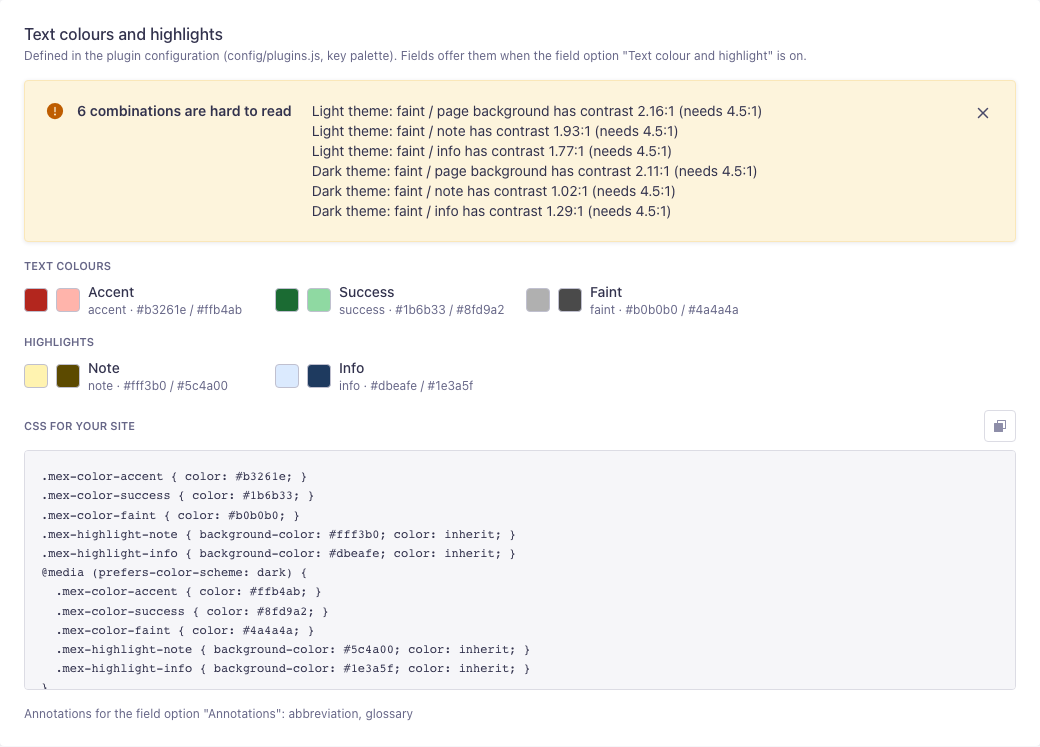
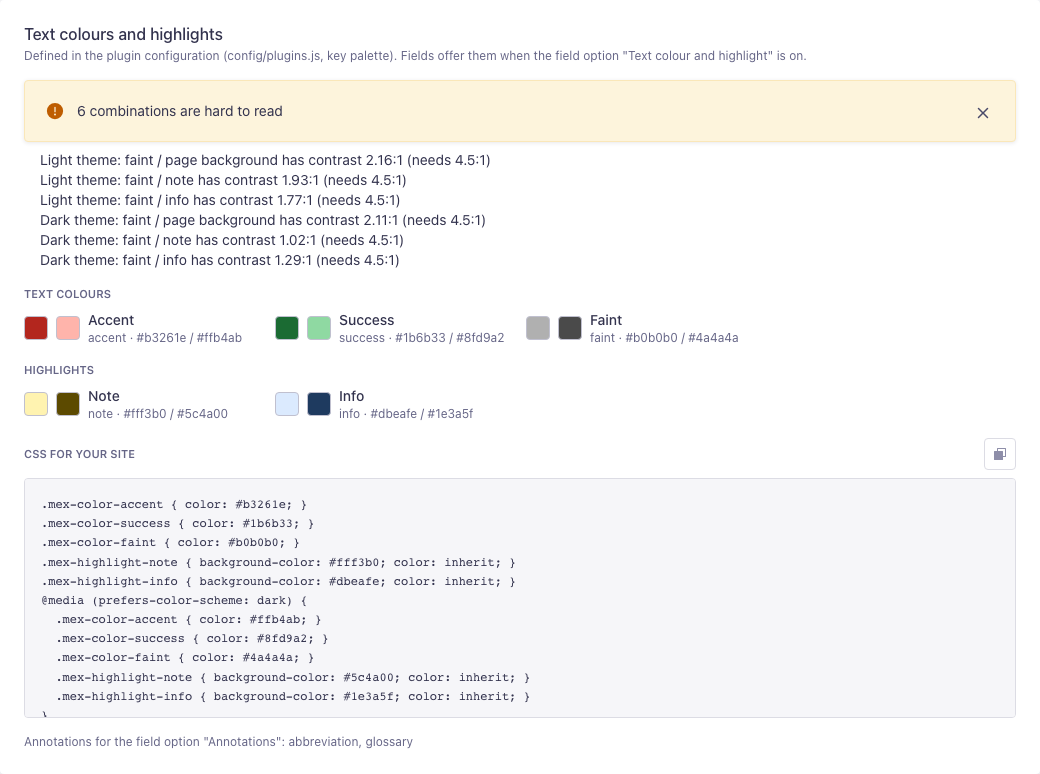
docs: 2.5 acceptance record, CONTRIBUTING host additions, compatibility (5.61.1, 5.62.0) and the re-taken palette screenshot

Changed region(s): [[0.0, 0.0308, 0.9846, 0.9853], [0.9538, 0.5542, 0.9846, 0.6158]]

diff --git a/docs/acceptance/2026-11-16-v2.5-acceptance.md b/docs/acceptance/2026-11-16-v2.5-acceptance.md
@@ -1,0 +1,106 @@
+# Magic Editor X 2.5 acceptance (2026-11-16)
+
+Final build under test: `feat/2.5` at b7e247e (last code change); later commits change only docs, screenshots and this record. Integration ran on the pack of f096b26; b7e247e changed only an attribute of the admin dialogs and two test assertions, and every browser run and both console sweeps ran on the pack of b7e247e. The plugin was packed with `npm pack` (package version 2.4.0 until semantic-release decides 2.5.0) and installed from the tarball into the acceptance host.
+
+Merged into 2.5: the six fixes for the 2.4 known issues, MCP tools (item 5), the entry panel with presence, soft lock, comments and quality, and the homepage widgets (items 1 and 12), insert from another entry and the block clipboard (item 2), private upload providers and dropped files (items 6 and 10), palette colours, superscript/subscript and inline annotations (items 9 and 11), local drafts and lazy start (items 7 and 8), the `@editorjs/embed` 2.7.7 pin for Node 22, and the fixes of this acceptance. Deferred: component blocks (item 3), Live Preview inline editing (item 4), a columns block (item 13) and the session-expiry warning (see the CHANGELOG).
+
+Host: Strapi **5.61.1** (npm `latest` is 5.62.0 since 2026-11-12; see the smoke test below), Node 22.23.1, the union of the eight 2.5 feature hosts on top of the 2.4 union host: content types `api::tag.tag` (no editor field), `api::longform.longform` (20 editor fields and a dynamic zone, no i18n) and `api::glossary-term.glossary-term`; the glossary annotation registered in `register()`; a synthetic `palette`; `presence.softLock`, `lazyInit.enabled`, `mcp.enabled` and Strapi's `server.mcp.enabled` from the environment; a fake private upload provider (`MEX_UPLOAD=private`, files served signed by a fake file server); the pre-2.4 write switch `MEX_PRE24_TITLES`; six seeded admins plus one admin without plugin access. Synthetic data only.
+
+## Automated gates
+
+| Gate                    | Command                                                                                  | Result                                                                                                                                                                                                                                                       |
+| ----------------------- | ---------------------------------------------------------------------------------------- | ------------------------------------------------------------------------------------------------------------------------------------------------------------------------------------------------------------------------------------------------------------ |
+| Lint / format           | `npm run lint`, `npm run format:check`                                                   | clean                                                                                                                                                                                                                                                        |
+| Unit tests              | `npm test`                                                                               | 763 / 763 (2.4.0: 647)                                                                                                                                                                                                                                       |
+| Build + runtime verify  | `npm run build`, `npm run verify`                                                        | OK                                                                                                                                                                                                                                                           |
+| Production audit        | `npm audit --omit=dev`                                                                   | 0 vulnerabilities                                                                                                                                                                                                                                            |
+| Lockfile                | `npm ci --dry-run --ignore-scripts` with npm 10.9.8 and 11                               | OK, 0 EBADENGINE                                                                                                                                                                                                                                             |
+| Engines                 | `tests/engines.test.mjs`; CI installs the packed package on Node 22                      | every production dependency accepts Node 22.12; no EBADENGINE                                                                                                                                                                                                |
+| Integration, SQLite     | `npm run test:integration` on a new database, plus the variant reruns                    | full suite 160 / 162 (2 skipped by design, run in the variants); mention e-mails on 6 / 6; fixes with e-mail 4 / 4; LanguageTool private off 2 / 2; alt text private off 2 / 2; MCP off 4 / 4; private upload provider 7 / 7                                 |
+| Integration, PostgreSQL | same                                                                                     | identical counts                                                                                                                                                                                                                                             |
+| Orphans                 | queries from CONTRIBUTING.md                                                             | 0 orphaned comments, suggestions and notifications on both databases                                                                                                                                                                                         |
+| Benchmark               | `npm run bench`, 3 runs                                                                  | all thresholds met in 3 / 3 runs; at 5,000 blocks normalise + sanitise 44.4 ms, `renderHtml` 37.9 ms, Yjs seed + apply 73.0 ms; 20 fields with 250 repeatable and dynamic-zone items: save normalise 93 ms, output render 68 ms (budgets 1,800 and 1,400 ms) |
+| Cluster (8 processes)   | `scripts/cluster-acceptance.mjs --duration 150 --clients 12`, 3 runs; `--proof presence` | 20 / 20 in each run; presence 7 / 7 (heartbeats seen through all processes, positional field rooms, leave, crash without ghosts, shared rate limit)                                                                                                          |
+| Strapi 5.62.0 smoke     | same pack on a host with Strapi 5.62.0, Design System and icons 2.3.1                    | install without EBADENGINE, admin build OK, integration 160 / 162 (2 skipped by design), console sweep of 104 screen states: 0 plugin messages (after b7e247e)                                                                                               |
+
+## Browser acceptance (Playwright, Chromium)
+
+Every scenario ran on the final pack against a new database per run, on SQLite and on PostgreSQL. Scenarios written before lazy start wait for every field on the page; they run with `lazyInit.enabled: false`, while the lazy start itself, the entry panel, the drafts and the console sweep run with the default configuration.
+
+| Scenario                             | What it covers                                                                                                                                                                                                      | SQLite | PostgreSQL |
+| ------------------------------------ | ------------------------------------------------------------------------------------------------------------------------------------------------------------------------------------------------------------------- | ------ | ---------- |
+| Fixes: Tab in dialogs                | Tab in the shortcuts dialog with a current block, Tab in the title, Tab between table cells                                                                                                                         | 17/17  | 17/17      |
+| Fixes: live editing                  | text typed into an empty field reaches the room; remote deletes keep the focus                                                                                                                                      | 8/8    | 8/8        |
+| Insert from another entry, clipboard | entry, locale, preset reasons, one undo step, live room, synced and custom blocks, image, Copy block, second tab, keyboard, 1440-320 light and dark, five locales                                                   | 70/70  | 70/70      |
+| Palette, sup/sub, annotations        | mouse and keyboard, required values, contrast warning, saved content, dark tokens, 1440-320, five locales                                                                                                           | 61/61  | 61/61      |
+| Entry panel and widgets              | two admins see each other, leaving and closed tabs, Show/Check (also for a field that has not started), collapsed component, 1440-320 light and dark, five locales, hidden without fields or access, home widgets   | 31/31  | 31/31      |
+| Soft lock                            | dialog once per tab, focus, Escape, Continue editing                                                                                                                                                                | 6/6    | 6/6        |
+| Local drafts and lazy start          | restore after tab close, reload and crash; one undo step; save, discard, conflict, expiry, new entry, positional field, live vs offline gap, logout clears; 20+5 fields, Tab into a waiting field, expanding a zone | 35/35  | 35/35      |
+| Media: picker keyboard               | picker by keyboard, focus back into the block, signed and visible, saved with file id and unsigned                                                                                                                  | 9/9    | 9/9        |
+| Media: drop zone                     | one upload, block after the pointer, visible, saved with id and unsigned                                                                                                                                            | 7/7    | 7/7        |
+| Media: matrix                        | 1440-320 light and dark: images visible, no overflow, drop frame inside the field; read-only reviewer gets no frame and uploads nothing                                                                             | 29/29  | 29/29      |
+| Legacy Media Library (once)          | host built with `useLegacyMediaLibrary: true`: no drop frame, Editor.js keeps its own file drop, gallery opens the legacy dialog, no plugin console messages                                                        | 5/5    |            |
+
+### Console sweep
+
+13 screens (edit view, More tools menu, comments panel, version history, insert from another entry, quality panel, long entry with 20 fields and a dynamic zone, new entry, admin home with widgets, Settings Configuration, Custom blocks, Templates, Audit trail) × light and dark × 1440, 768, 390 and 320 px = 104 screen states per database. Every console error and warning, page error and failed request is attributed.
+
+| Source                                                                                                 | SQLite | PostgreSQL |
+| ------------------------------------------------------------------------------------------------------ | ------ | ---------- |
+| **Magic Editor X**                                                                                     | **0**  | **0**      |
+| Unattributed                                                                                           | 0      | 0          |
+| Strapi core: content-manager `useRBAC(object)` deprecation warning                                     | yes    | yes        |
+| Strapi core: React Router v7 future-flag warnings                                                      | yes    | yes        |
+| Strapi core: styled-components unknown prop `attribute`                                                | yes    | yes        |
+| Strapi core: upgrade banner request to api.github.com (outgoing requests are blocked on the host)      | yes    | yes        |
+| Strapi core: 404 of the i18n AI localisation job lookup and of the preview URL lookup (not configured) | yes    | yes        |
+| Page overflow, navigation failures                                                                     | 0      | 0          |
+
+The same sweep on the Strapi 5.62.0 host: 0 plugin, 0 unattributed. The scenarios' own console checks report no plugin messages either. On the legacy host, react-query of Strapi's legacy Media Library logs `AbortError` when its dialog closes during a request (Strapi core; the plugin does not use react-query).
+
+## Click paths (fresh entry to done)
+
+Counted as clicks or key presses, without typing the content itself; verified by the scenarios named above. Everything new is off by default or appears only in context; the field toolbar is unchanged (undo, redo, More tools, full screen).
+
+| Flow                                    | Steps | Path and notes                                                                                                                                                  |
+| --------------------------------------- | ----- | --------------------------------------------------------------------------------------------------------------------------------------------------------------- |
+| See who else is editing                 | 0     | Open the entry: the Magic Editor X panel lists them under "Editing now" (in the actions drawer below 1080 px: +1 to open it)                                    |
+| Soft lock (opt-in)                      | 1     | Open the entry > Continue editing (asked once per tab)                                                                                                          |
+| Open a field's comments from the panel  | 1     | Show (at 390/320: +2 to open and close the drawer)                                                                                                              |
+| Quality of a field in a closed group    | 3     | Check > open the group (the row says which) > Check                                                                                                             |
+| Open a thread from the admin home       | 1     | Click the thread in "My open threads"                                                                                                                           |
+| Restore unsaved changes                 | 2     | Open the entry > Restore > Save. The notice says when the changes were made; if the saved content changed meanwhile it says so and never restores automatically |
+| Discard old unsaved changes             | 1     | Discard                                                                                                                                                         |
+| Insert blocks from another entry        | 4     | More tools > Insert from another entry > click the entry > Insert N blocks (type, language and field are preselected; +1 for another language)                  |
+| Copy one block to another field         | 3     | Block menu > Copy block > click in the target > Ctrl/Cmd+V                                                                                                      |
+| Colour a word                           | 3     | Select > Colour > token (keyboard: Ctrl/Cmd+Shift+7, arrows, Enter)                                                                                             |
+| Superscript or subscript                | 2     | Select > x² or x₂ (or Ctrl/Cmd+. / Ctrl/Cmd+Shift+.)                                                                                                            |
+| Abbreviation                            | 4     | Select > Ab > type the full form > Apply                                                                                                                        |
+| Drop files into a field                 | 1     | Drag the files onto the field and drop                                                                                                                          |
+| Pick images for a gallery               | 3     | Add images > tick > Confirm                                                                                                                                     |
+| Private files after a reload            | 0     | Nothing to do: the field signs them before it shows them                                                                                                        |
+| Long entry                              | 0     | Scroll or Tab to a field: it starts as it comes near and takes the focus                                                                                        |
+| Turn on colours for a field (developer) | 4     | Content-Type Builder > field > Advanced settings > Extra formatting (needs a `palette`; Settings says so when there is none)                                    |
+| Connect an AI client (MCP, developer)   | 3     | `mcp.enabled` and Strapi's `server.mcp.enabled` > admin token with "Use the Magic Editor X tools of the MCP server" > client to `/mcp`                          |
+
+## Bugs found by this acceptance and fixed
+
+- **Private files loaded unsigned first** (be2022d): with a private upload provider every image was requested unsigned before the signed URL replaced it (403 from the storage, console errors, slow first paint), because tools request an image as soon as they set `src`. The field now signs its media before Editor.js renders (one batch, at most 3 s) and `save()` returns the stored URLs (`admin/src/editor/media-signer.mjs`, 4 unit tests). Verified: no 403 in the picker, drop and matrix runs.
+- **Entry panel 404 on types without i18n** (be2022d): the Content Manager keeps `plugins[i18n][locale]` in every URL, and `POST /presence` and `GET /entry-summary` refused a locale for such types (empty panel, console errors on `longform`). The locale is now ignored there, as in `checkField` (unit test).
+- **DOM nesting error in Settings** (d4b7ef3): the list of hard-to-read colour combinations was rendered inside the Design System Alert's paragraph.
+- **401 after logging out from an entry** (f096b26): the panel's last heartbeat ran after Strapi had removed the token. A small middleware tracks the session; the request is skipped after a logout (unit test).
+- **Radix description warning on Strapi 5.62** (b7e247e): Design System 2.3.1 (Radix Dialog 1.1.5) warns for every dialog without a description; all plugin Modals pass `aria-describedby={undefined}`, the documented opt-out (contract test).
+- **No EBADENGINE on Node 22** (a2d0929): `@editorjs/embed` 2.8.0 requires Node 24; pinned to 2.7.7 with YouTube Shorts and Figma defined by the plugin; `engines.node` declares the Node 22.12 that sanitize-html 2.18 already needed.
+
+Test-only findings, investigated to their cause: scenarios that cached API tokens per port answered 401 after a database was recreated on the same port (the runner now removes them); the media matrix dragged onto the first field while another field was the one that had started (fields start in any order now; the scenario waits for the field it drags onto, 3 / 3 reruns); the picker's Tab budget was too small for a Media Library with the fixtures of every suite; the soft-lock run once counted a session request cancelled by closing the page (`net::ERR_ABORTED`, nothing in the console).
+
+## Not verified
+
+- Live Preview, Content Releases, review workflows and Strapi AI translations need an Enterprise or Growth plan.
+- Chromium only. The legacy Media Library ran once, on SQLite.
+- Mention e-mails went to a local fake SMTP server only.
+- MCP was exercised with raw JSON-RPC over HTTP, not with a real AI client.
+
+## Screenshots
+
+Taken by the feature agents on their final builds (synthetic data, no toasts, opened and checked) and committed in `docs/site/img/`, with before/after pairs for every changed screen (`entry-panel-*`, `home-widgets-*`, `drafts-*`, `lazy-*`, `reuse-menu-*`, `reuse-dialog-*`, `inline-toolbar-*`, `media-picker-*`, `media-drop-*`, `private-media-*`, `mcp-settings-*`). `inline-settings-palette-light-1440.png` was re-taken on the final build after the Settings fix. The toolbar is unchanged since 2.4, so no older screenshot needed a retake.

diff --git a/CONTRIBUTING.md b/CONTRIBUTING.md
@@ -40,6 +40,12 @@ Integration and browser tests run against a separate Strapi 5 app that installs 
    - `src/index.js` `bootstrap()`: when `process.env.MEX_LEGACY_BLOCKS === 'true'` and no custom block named `toc` exists, write one the way the 2.2 service did, because 2.3 refuses the name for new blocks: `strapi.db.query('plugin::magic-editor-x.custom-block').create({ data: { name: 'toc', label: 'Legacy contents box', blockType: 'simple', fields: [{ name: 'title', label: 'Title', type: 'text' }], displayFields: [], previewFields: [], tunes: [], styles: {}, inlineToolbar: true, enabled: true, sortOrder: 900 } })`. Start the host with `MEX_LEGACY_BLOCKS=true` for the integration suite (`tests/integration/reserved-names.test.mjs` fails with a hint otherwise). It replaces the built-in table of contents tool in that host's editor, so leave it off for browser checks of the built-in `toc` block. 2.4: the same switch also writes a Settings custom block named `math` (fields `[{ name: 'formula', label: 'Formula', type: 'text' }]`, `sortOrder: 901`) for `tests/integration/math-footnotes.test.mjs`; delete it (`DELETE /magic-editor-x/custom-blocks/:id`) before browser checks of the built-in math block, because its own tool replaces the built-in one.
    - 2.5 (`tests/integration/fixes-25.test.mjs`): `src/index.js` `register()`: when `process.env.MEX_PRE24_TITLES === 'true'`, add a Document Service middleware (`strapi.documents.use`, registered by the app after the plugin, so it runs after the plugin assigned the field keys) that, for `create` and `update` of `api::article.article` whose `data.title` starts with `[pre-2.4]`, deletes `fieldKey` from every editor value in `data` (objects with a `blocks` array), so such entries are stored the way 2.3 stored them. Start the host with `MEX_PRE24_TITLES=true` for the integration suite (the discard test fails with a hint otherwise). The mention e-mail language test of that file starts its own fake SMTP server on 127.0.0.1:`MEX_FIXES_SMTP_PORT` (default 2583) and runs when `MEX_MAIL_EXPECTED=on`: point the host's email provider port at it (`MEX_SMTP_PORT` in the acceptance host) and start it with mention e-mails on.
    - Content types for the tests: `api::article.article` (localised, Draft & Publish) with `title` (string), `slug` (uid of `title`), `body` (Magic Editor X), `summary` (Magic Editor X with the options `{ "preset": "basic", "requireAlt": true, "maxCharacters": 400, "linkTargets": "internal", "disableAi": true, "disableGrammar": true, "disableCollaboration": true, "publishGuard": true }`), `teaser` (Magic Editor X with `{ "preset": "minimal" }`), `legacy` (Blocks), `notes` (Rich text, Markdown), `migrated` (Magic Editor X) and a repeatable component `sections` with a Magic Editor X field `body`; `api::homepage.homepage` (single type) with `intro` (Magic Editor X); `api::category.category` (Draft & Publish) with `name` (string), `slug` (uid of `name`), `secretNote` (private string) and `body` (Magic Editor X); on the article also a `category` relation (many to one) and a dynamic zone `zone` with `blocks.text-section`, `blocks.quote-card` (`caption` string, `body` Magic Editor X) and `blocks.group` (`title` string, `items` repeatable `blocks.text-section`), plus a localised repeatable component `groups` of `blocks.group` (`tests/integration/field-identity.test.mjs` uses nested components and a dynamic zone with several component types). Add `@strapi/plugin-graphql` 5.61.x and set `links.urlPattern` to `'/{locale}/{collection}/{slug}'` in the plugin config.
+   - 2.5 additions (the union host of the 2.5 acceptance, see `docs/acceptance/2026-11-16-v2.5-acceptance.md`):
+     - content types `api::tag.tag` (field `name`, no editor field; `tests/integration/entry-panel.test.mjs`, or `MEX_ENTRY_PLAIN_UID`), `api::longform.longform` (20 editor fields and a dynamic zone, no i18n; browser checks of lazy start) and `api::glossary-term.glossary-term` (`slug`, `definition`, Draft & Publish), and the glossary annotation of `tests/fixtures/glossary.mjs` registered in `register()` (`tests/integration/inline-format.test.mjs`);
+     - article `body` options `inlineColors: true`, `inlineScript: true`, `inlineAnnotations: "abbreviation, glossary"`, `summary` option `inlineScript: true`, and a plugin `palette` with the colours `accent`, `success`, `faint` and the highlights `note`, `info`;
+     - `mcp: { enabled: true }` in the plugin config and `mcp: { enabled: true }` in `config/server` (`tests/integration/mcp.test.mjs`; a second run with the plugin option off and `MEX_MCP_EXPECT=off`);
+     - a private upload provider for `tests/integration/private-media.test.mjs`: a local provider whose `isPrivate()` returns `true` and whose `getSignedUrl` adds an HMAC and an expiry to the URL, files served by a small server that refuses unsigned requests; start the app with it (`MEX_UPLOAD=private`) and pass `MEX_UPLOAD=private`, `MEX_DB` (SQLite file or PostgreSQL URL), `MEX_HOST_DIR` and the app's database environment to the test (it runs `npx magic-editor-x media-file-ids` in the app);
+     - `MEX_ENTRY_LINK_PORT` must be one of the private origins of the scheduled link check (the suite uses 1578).
 4. Generate every secret with `crypto.randomBytes` into `.env` (mode 600), including `MAGIC_EDITOR_X_ENCRYPTION_KEY`. Never print or commit them.
 5. Start the app with outgoing network blocked: `NODE_OPTIONS="-r ./block-egress.cjs" npx strapi start` (a preload that only allows loopback connections).
 6. Seed it through the admin API: register the first admin with `POST /admin/register-admin` (Super Admin, which also has `templates.manage`), create six admins (`editor@example.test` with the Editor role plus `access`, `collaborate`, `ai.use`, `grammar.use`, `comments.read`, `comments.write`, `suggestions.create` and `suggestions.review`; `author@example.test` with the Author role and no plugin actions; `reviewer@example.test` with a role that can only read articles (fields `title`, `body`, `sections`, locales `en` and `de`) and the homepage and has `access`, `collaborate`, `comments.read`, `comments.write` and `suggestions.create`; `reader@example.test` with a role that can only read articles and has `access`, `comments.read` and `suggestions.review`; `writer@example.test` with a role that can read and update articles (locales `en` and `de`) and has `access`, `ai.use` and `grammar.use` but no Media Library permission; `outsider@example.test` with a role that can only read the homepage and has `access`, `comments.read` and `comments.write`, so it is never mentionable on articles), add the locale `de`, and write the credentials to a `creds.json` with mode 600:

diff --git a/README.md b/README.md
@@ -199,13 +199,15 @@ All screenshots use synthetic data (acceptance host: Strapi 5.61.1).
 
 ## Compatibility
 
-| Plugin | Strapi                                         | Node     | Notes                                                                                                                       |
-| ------ | ---------------------------------------------- | -------- | --------------------------------------------------------------------------------------------------------------------------- |
-| 2.x    | 5.38 or later (acceptance host: Strapi 5.61.1) | 22 or 24 | SQLite, PostgreSQL and MySQL/MariaDB through the Strapi database connection. Acceptance runs used SQLite and PostgreSQL 16. |
-| 1.x    | 5.x                                            | 22       | No longer developed.                                                                                                        |
+| Plugin | Strapi                                                                     | Node                      | Notes                                                                                                                       |
+| ------ | -------------------------------------------------------------------------- | ------------------------- | --------------------------------------------------------------------------------------------------------------------------- |
+| 2.x    | 5.38 or later (acceptance host: Strapi 5.61.1; 2.5 also checked on 5.62.0) | 22.12 or later (22 or 24) | SQLite, PostgreSQL and MySQL/MariaDB through the Strapi database connection. Acceptance runs used SQLite and PostgreSQL 16. |
+| 1.x    | 5.x                                                                        | 22                        | No longer developed.                                                                                                        |
 
 - `engines.node` is `>=22.12.0 <=26.x.x` (2.5 declares the floor that sanitize-html 2.18 already required since 2.4.0); the 2.3 to 2.5 test runs used Node 22.23.1.
-- The admin uses the React, React Router, react-intl, styled-components and Design System versions of the Strapi admin (React 18, Design System 2.2.4).
+- The admin uses the React, React Router, react-intl, styled-components and Design System versions of the Strapi admin (React 18, Design System 2.2.4 in Strapi 5.61, 2.3.1 in 5.62).
+- Dropping files onto a field uses the Media Library drop zone that Strapi registers from 5.61; with an older Strapi or the legacy Media Library (`useLegacyMediaLibrary`) Editor.js keeps its own file drop.
+- Console messages you may see in the admin that come from Strapi itself, not from the plugin: the `useRBAC` deprecation warning, React Router future-flag warnings, the styled-components `attribute` prop warning, and the upgrade check to api.github.com when outgoing requests are blocked.
 - The editor uses Editor.js 2.31.7. Editor.js 2.32.0 is still a release candidate on npm (`2.32.0-rc.3` on the `next` tag, checked 2026-11-12) and is not used. Why the plugin stays on Editor.js is explained in [docs/engine-decision.md](./docs/engine-decision.md).
 - Formulas are rendered with Temml 0.14 (MIT), loaded by the admin only when a field shows math.
 - `magic-editor-x/react` works with React 18 and 19 (peer `^18.0.0 || ^19.0.0`), in the browser and in server rendering, including React Server Components.

diff --git a/CHANGELOG.md b/CHANGELOG.md
@@ -26,6 +26,7 @@ Magic Editor X 2.5 shows who is editing an entry, keeps unsaved work, lets edito
 - Mention e-mails use the recipient's admin language (en, de, fr, es, pt).
 - The inline toolbar wraps inside the field on narrow screens instead of running off the left edge.
 - Focus returns into gallery, video and audio blocks after the Media Library picker closes.
+- No Radix accessibility warning in the console for the plugin's dialogs on Strapi 5.62 (Design System 2.3.1).
 - Installing on Node 22 no longer warns with EBADENGINE (see the migration notes); CI installs the packed package on Node 22 and fails on any EBADENGINE.
 
 ### Deferred
